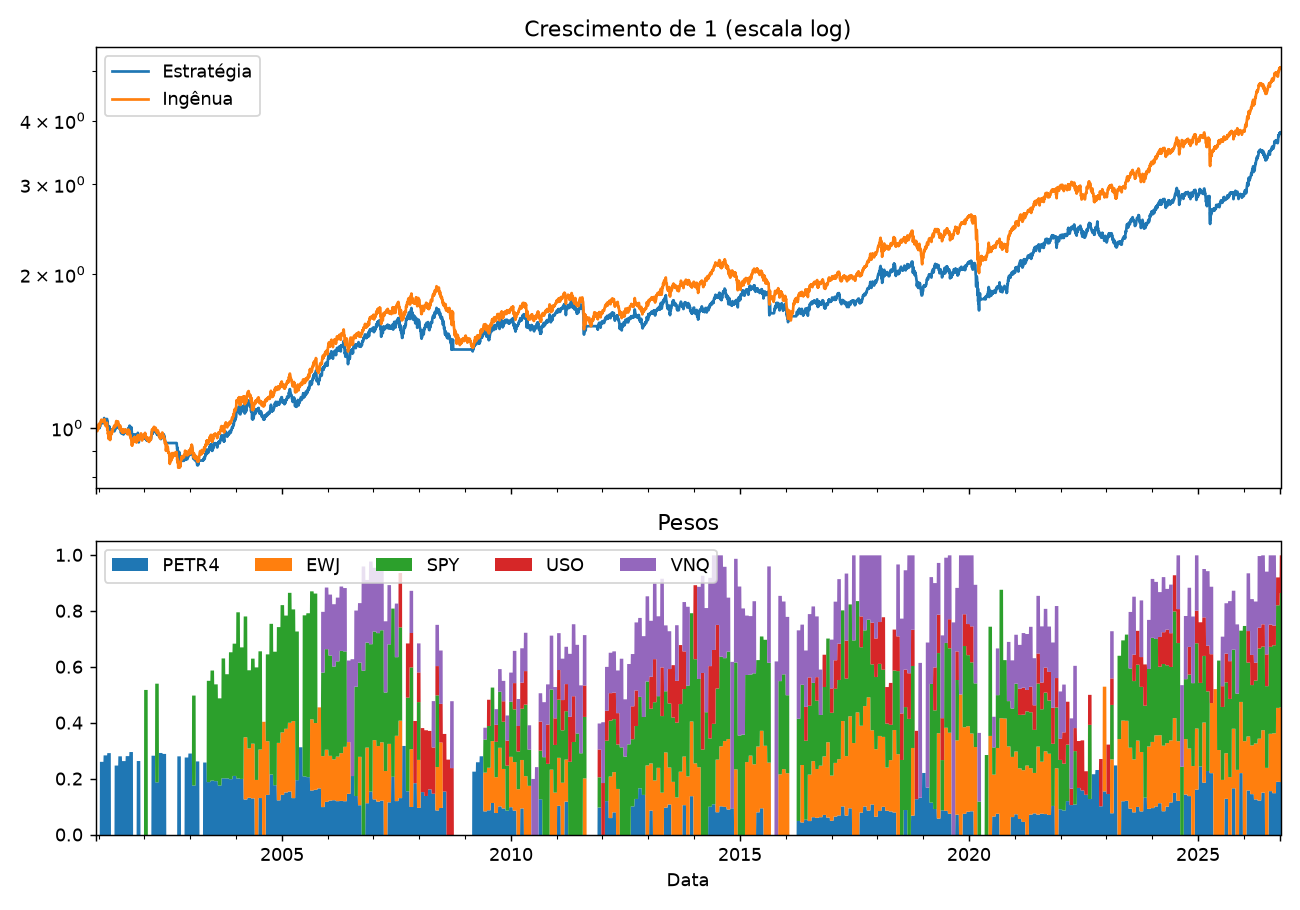
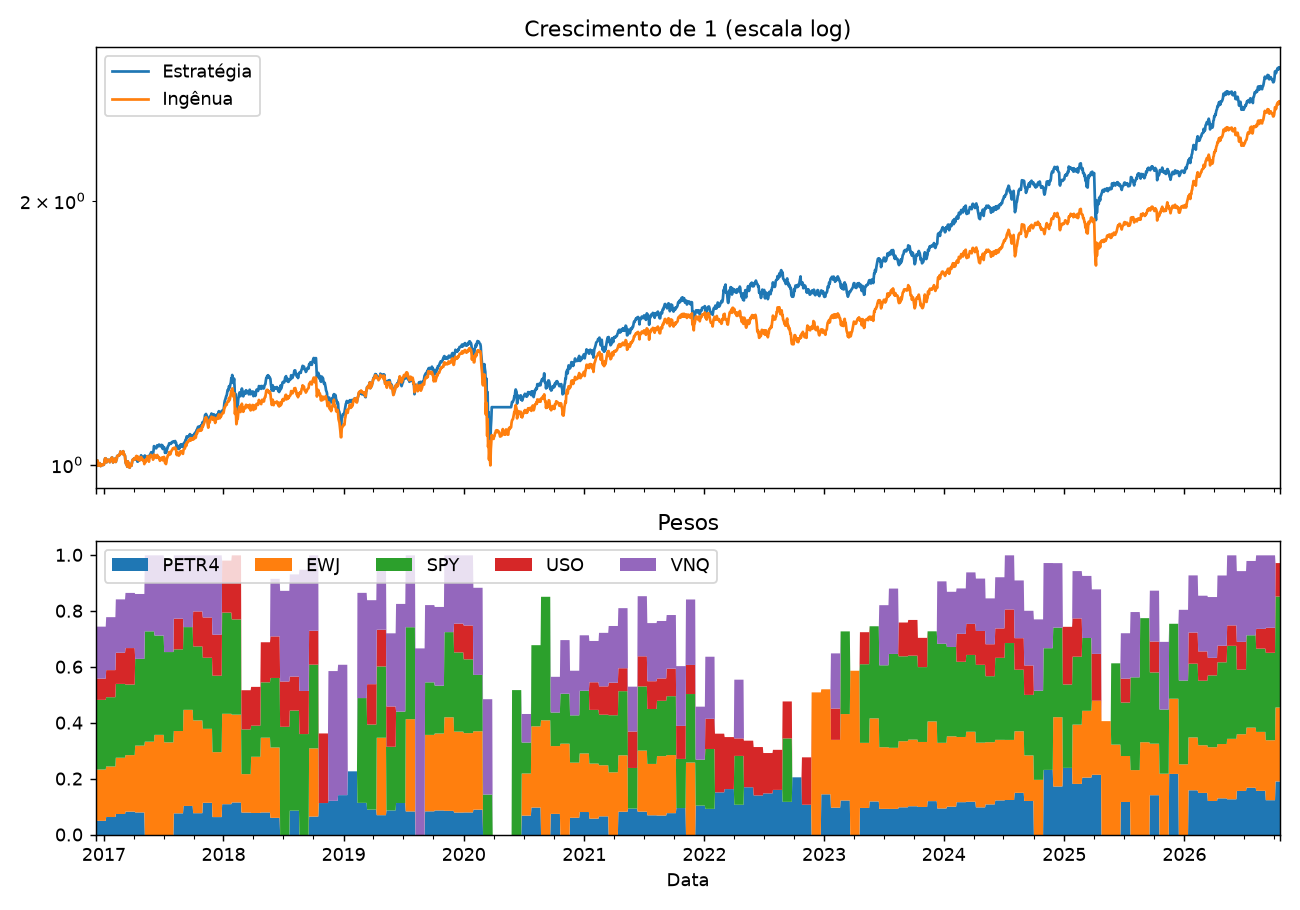
initial test

diff --git a/initial-test.py b/initial-test.py
@@ -1,25 +1,4 @@
-"""
-Momentum ajustado à volatilidade + GARCH, aplicado à planilha dados_teste.xlsx.
 
-Base (Economatica, fechamento ajustado a proventos, moeda original):
-    PETR4 (BRL) | FXI, EWJ, SPY, USO, VNQ (USD)
-
-Tratamentos específicos desta base:
-  - "-" vira NaN (feriados de cada mercado e períodos sem negociação).
-  - Retornos são calculados sobre as observações válidas de CADA ativo, então um
-    feriado nos EUA não vira "retorno zero" artificial (o que subestimaria a vol).
-  - Ativos com cobertura ruim são removidos automaticamente (a FXI tem só 366
-    observações esparsas desde 2013 e termina em ago/2026: inviável para GARCH).
-  - A amostra começa em `start` (default 1999) para evitar o período de
-    hiperinflação do PETR4 (preços ~1e-10 e retornos de +50% ao dia).
-  - A planilha NÃO traz CDI nem câmbio. Ambos são opcionais:
-        * `fx` (USD/BRL diário) converte os ativos em dólar para reais;
-        * `cdi` (retorno diário) rende o caixa; sem ele, usa `cash_rate_anual` fixo.
-    Sem `fx`, o PETR4 (BRL) e os demais (USD) ficam em moedas diferentes: o código
-    roda, mas a carteira NÃO é uma carteira em reais. Veja o aviso no console.
-
-Dependências: pip install arch statsmodels pandas numpy openpyxl matplotlib
-"""
 from __future__ import annotations
 
 import time
@@ -36,12 +15,10 @@ ANN = 252
 PATH_XLSX = "bases de dados\dados_teste.xlsx"
 
 
-# ----------------------------------------------------------------------------
-# Configuração
-# ----------------------------------------------------------------------------
+# CFG GARCH
 @dataclass(frozen=True)
 class Config:
-    start: str = "1999-01-01"         # início da amostra (evita hiperinflação do PETR4)
+    start: str = "01/01/1999"         # data inicial
     vol_model: str = "gjr"            # "garch" | "gjr" | "ewma"
     garch_window: int = 756           # janela de estimação (~3 anos)
     refit_every: int = 21             # reestima e rebalanceia a cada ~1 mês
@@ -51,22 +28,20 @@ class Config:
     min_coverage: float = 0.80        # cobertura mínima para o ativo entrar no universo
     mom_lookbacks: tuple = (21, 63, 126, 252)
     target_vol: float = 0.10          # vol anual alvo da carteira
-    max_leverage: float = 1.0         # exposição bruta máxima
+    max_leverage: float = 1.0         # exposiçao bruta maxima
     long_only: bool = True            # False => permite vendido
     corr_halflife: int = 63
     corr_shrink: float = 0.2
     cost_bps: float = 5.0             # custo por unidade de turnover
-    cash_rate_anual: float = 0.0      # usado só se `cdi` não for fornecido
+    cash_rate_anual: float = 0.0      # usado só se o cdi não for fornecido
 
 
-# ----------------------------------------------------------------------------
+
 # 0) Carga e preparação dos dados
-# ----------------------------------------------------------------------------
+
 def load_data(path: str = PATH_XLSX) -> pd.DataFrame:
-    """Lê a planilha Economatica (cabeçalho na linha 4; tickers no fim do título)."""
     raw = pd.read_excel(path, sheet_name=0, header=None)
     header = raw.iloc[3].astype(str)
-    # 1ª coluna de preço é o PETR4 (sem sufixo); as demais trazem o ticker na última linha
     tickers = ["PETR4"] + [h.strip().split("\n")[-1] for h in header.iloc[2:]]
     df = raw.iloc[4:, :].copy()
     df.columns = ["Data"] + tickers
@@ -109,16 +84,16 @@ def prepare(prices: pd.DataFrame, cfg: Config, fx: pd.Series | None = None,
               "Passe `fx` (USD/BRL) para obter uma carteira em reais.")
 
     simple = pd.DataFrame(index=prices.index, columns=prices.columns, dtype=float)
-    for c in prices.columns:  # retorno entre observações válidas do próprio ativo
+    for c in prices.columns:  # retorno entre observações validas do proprio ativo
         simple[c] = prices[c].dropna().pct_change().reindex(prices.index)
     logr = np.log1p(simple)
-    logp = np.log(prices).ffill(limit=5)  # só para o momentum (atravessa feriados)
+    logp = np.log(prices).ffill(limit=5)  # soh para o momentum (atravessa feriados)
     return prices, simple, logr, logp
 
 
-# ----------------------------------------------------------------------------
+
 # 1) Previsão de volatilidade
-# ----------------------------------------------------------------------------
+
 def ewma_vol(r: pd.DataFrame, lam: float = 0.94) -> pd.DataFrame:
     """Vol diária EWMA (benchmark e fallback). Ignora NaN dos feriados."""
     out = {}
@@ -167,9 +142,7 @@ def build_vol_forecasts(logr: pd.DataFrame, cfg: Config) -> pd.DataFrame:
     return out
 
 
-# ----------------------------------------------------------------------------
 # 2) Momentum ajustado à vol (t-stat), vários lookbacks
-# ----------------------------------------------------------------------------
 def momentum_tstat(logp: pd.DataFrame, sigma: pd.DataFrame, cfg: Config) -> pd.DataFrame:
     scores = []
     for L in cfg.mom_lookbacks:
@@ -178,9 +151,8 @@ def momentum_tstat(logp: pd.DataFrame, sigma: pd.DataFrame, cfg: Config) -> pd.D
     return sum(scores) / len(scores)
 
 
-# ----------------------------------------------------------------------------
-# 3) Pesos: momentum = direção, vol = tamanho
-# ----------------------------------------------------------------------------
+
+# 3) pesos: momentum = direção, vol = tamanho
 def ewma_corr(win: pd.DataFrame, halflife: int, shrink: float) -> np.ndarray:
     n = len(win)
     w = 0.5 ** (np.arange(n)[::-1] / halflife)
@@ -226,9 +198,7 @@ def build_weights(logr, logp, sigma, cfg: Config, use_momentum: bool = True) -> 
     return W
 
 
-# ----------------------------------------------------------------------------
 # 4) Backtest (pesos em t valem a partir de t+1)
-# ----------------------------------------------------------------------------
 def cash_series(index: pd.DatetimeIndex, cfg: Config, cdi: pd.Series | None) -> pd.Series:
     if cdi is not None:
         return cdi.reindex(index).fillna(0.0)
@@ -244,9 +214,9 @@ def backtest(simple, W, cash, cfg: Config):
     return ret, turnover, Wd
 
 
-# ----------------------------------------------------------------------------
+
 # 5) Métricas e regressão
-# ----------------------------------------------------------------------------
+
 def metrics(ret, cash, target_vol=None, turnover=None) -> dict:
     c = cash.reindex(ret.index).fillna(0.0)
     ex = ret - c
@@ -273,9 +243,9 @@ def factor_regression(ret, cash, factors: pd.DataFrame):
     return res
 
 
-# ----------------------------------------------------------------------------
+
 # 6) Escolha de modelo/janela por QLIKE (walk-forward)
-# ----------------------------------------------------------------------------
+
 def qlike(rv: pd.DataFrame, fc_var: pd.DataFrame) -> float:
     rv, fc_var = rv.where(rv > 0), fc_var.where(fc_var > 0)
     ratio = rv / fc_var
@@ -294,9 +264,9 @@ def evaluate_vol_models(logr, cfg, models=("garch", "gjr", "ewma"), windows=(504
     return pd.DataFrame(rows).sort_values("qlike").reset_index(drop=True)
 
 
-# ----------------------------------------------------------------------------
+
 # 7) Execução
-# ----------------------------------------------------------------------------
+
 def run(prices_raw: pd.DataFrame, cfg: Config = Config(), fx=None, cdi=None,
         factor_cols=("SPY",), plot_path: str | None = None):
     prices, simple, logr, logp = prepare(prices_raw, cfg, fx)
@@ -344,10 +314,6 @@ def run(prices_raw: pd.DataFrame, cfg: Config = Config(), fx=None, cdi=None,
 if __name__ == "__main__":
     prices_raw = load_data(PATH_XLSX)
     cfg = Config(long_only=True, target_vol=0.10, max_leverage=1.0)
-
-    # fx  = pd.read_..."USDBRL"  # Series diária USD/BRL  -> carteira em reais
-    # cdi = pd.read_..."CDI"     # Series diária do retorno do CDI
-    # print(evaluate_vol_models(prepare(prices_raw, cfg)[2], cfg))  # escolher modelo/janela
 
     out = run(prices_raw, cfg, fx=None, cdi=None,
               plot_path="momentum_garch_resultado.png")
